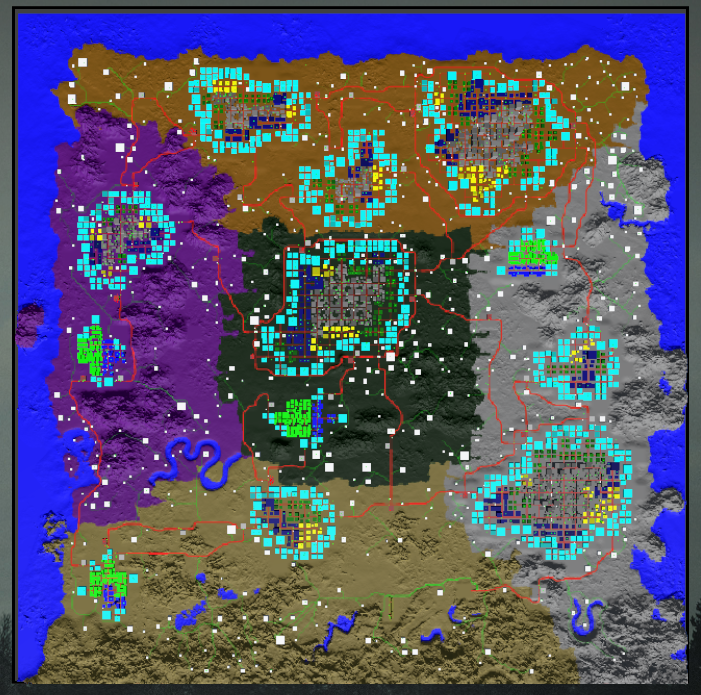
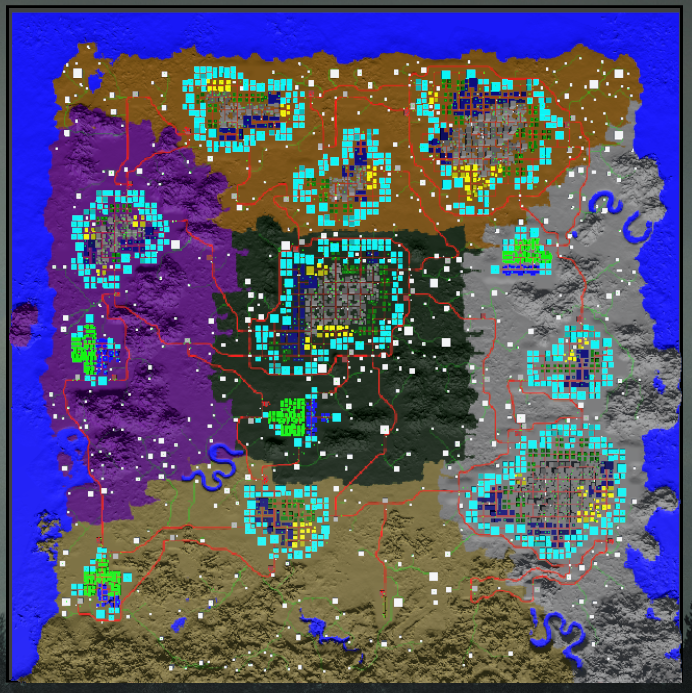
Added road and (possible) trader to old west towns

diff --git a/README.md b/README.md
@@ -8,6 +8,7 @@ A 7 Days to Die (7D2D) mod that adjusts the parameters used in world generation.
 - larger downtown areas
 - more book POIs
 - each district now has a unique color (previously six districts shared three colors)
+- added road to Old West towns (a trader might spawn there too)
 
 A map generated by this mod:
 ![An example of a map generated by this mod](/modded_example.png)
